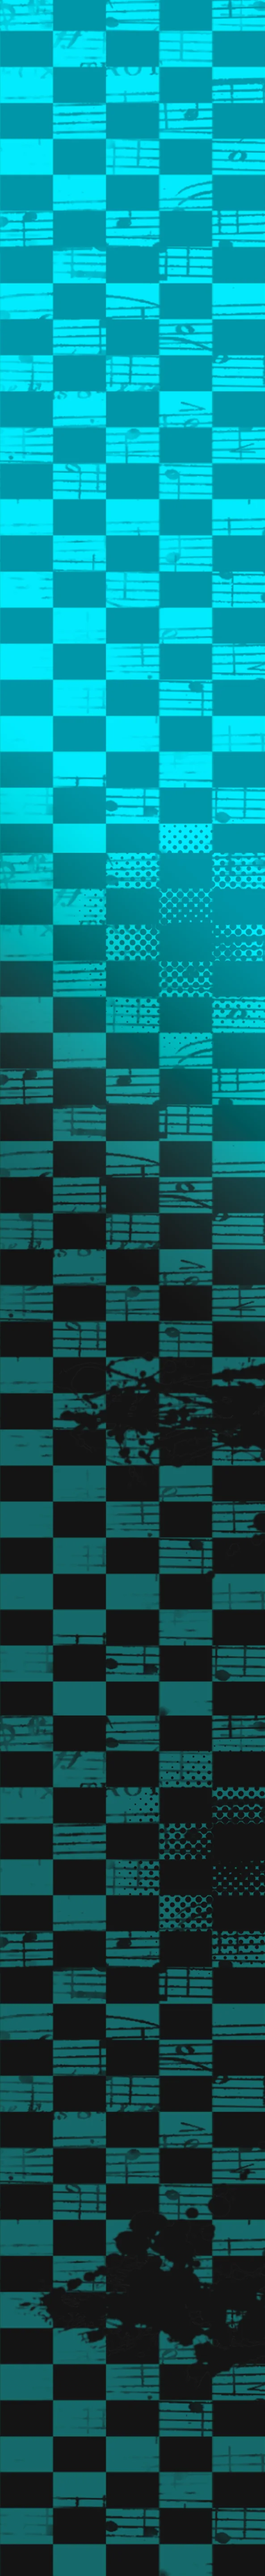
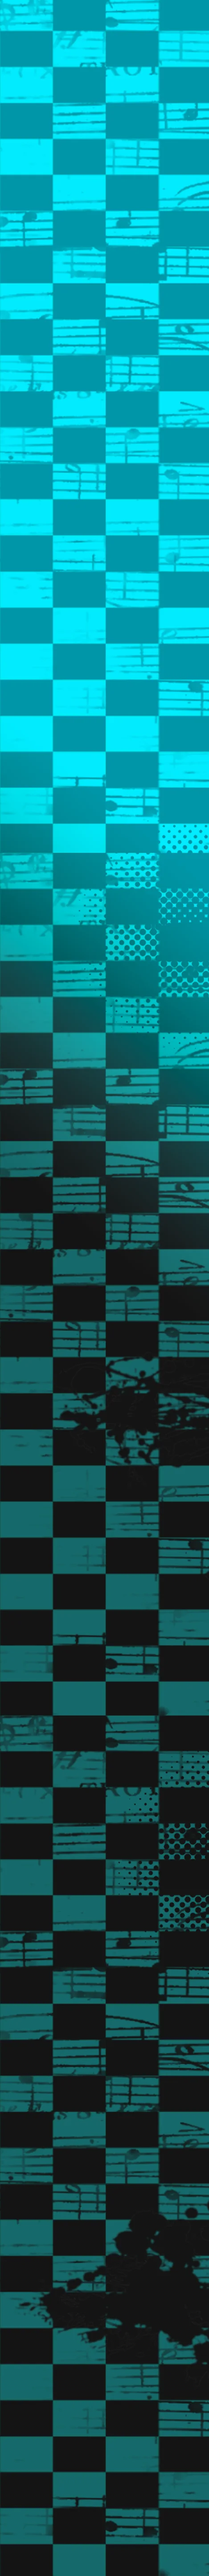
lot of medias

diff --git a/site/css/main.css b/site/css/main.css
@@ -161,7 +161,7 @@ img.photo-frame {
    ========================================================================== */
 
 #navbar {
-  background: #0b2d0b url('../assets/img/backgrouds/navBG.png') no-repeat center / cover;
+  background: #0b2d0b url('../assets/img/backgrouds/navBG.webp') no-repeat center / cover;
   padding: 9px 26px;
   display: flex;
   align-items: center;
@@ -260,7 +260,7 @@ img.photo-frame {
 /* --- zone de contenu : damier grunge fourni par les graphistes --- */
 #main-col {
   flex: 1;
-  background: var(--teal-2) url('../assets/img/backgrouds/mainBG.png') top center / 100% auto repeat-y;
+  background: var(--teal-2) url('../assets/img/backgrouds/mainBG.webp') top center / 100% auto repeat-y;
   padding: 24px 26px 60px;
   position: relative;
 }
@@ -926,7 +926,7 @@ body[data-page="secret"] #main-col {
   content: "";
   position: absolute;
   inset: 0;
-  background: url('../assets/img/backgrouds/backgroundHeadSection.png') center / cover no-repeat;
+  background: url('../assets/img/backgrouds/backgroundHeadSection.webp') center / cover no-repeat;
   filter: hue-rotate(-100deg) saturate(1.05);
   z-index: 0;
 }
@@ -955,7 +955,7 @@ body[data-page="secret"] #main-col {
   content: "";
   position: absolute;
   inset: 0;
-  background: url('../assets/img/backgrouds/backgroundMainSection.png') center / cover no-repeat;
+  background: url('../assets/img/backgrouds/backgroundMainSection.webp') center / cover no-repeat;
   filter: grayscale(.8) brightness(1.1);
   opacity: .32;
   z-index: 0;
@@ -3050,7 +3050,7 @@ section#art {
   display: block;
   width: min(320px, 82vw);
   padding: 13px 10px;
-  background: #0b2d0b url('../assets/img/backgrouds/navBG.png') center / cover no-repeat;
+  background: #0b2d0b url('../assets/img/backgrouds/navBG.webp') center / cover no-repeat;
   border: 2px solid #000;
   box-shadow: 3px 3px 0 rgba(0, 0, 0, .5);
   color: #fff;

diff --git a/shopify-theme/assets/main.css b/shopify-theme/assets/main.css
@@ -161,7 +161,7 @@ img.photo-frame {
    ========================================================================== */
 
 #navbar {
-  background: #0b2d0b url('navBG.png') no-repeat center / cover;
+  background: #0b2d0b url('navBG.webp') no-repeat center / cover;
   padding: 9px 26px;
   display: flex;
   align-items: center;
@@ -260,7 +260,7 @@ img.photo-frame {
 /* --- zone de contenu : damier grunge fourni par les graphistes --- */
 #main-col {
   flex: 1;
-  background: var(--teal-2) url('mainBG.png') top center / 100% auto repeat-y;
+  background: var(--teal-2) url('mainBG.webp') top center / 100% auto repeat-y;
   padding: 24px 26px 60px;
   position: relative;
 }
@@ -926,7 +926,7 @@ body[data-page="secret"] #main-col {
   content: "";
   position: absolute;
   inset: 0;
-  background: url('backgroundHeadSection.png') center / cover no-repeat;
+  background: url('backgroundHeadSection.webp') center / cover no-repeat;
   filter: hue-rotate(-100deg) saturate(1.05);
   z-index: 0;
 }
@@ -955,7 +955,7 @@ body[data-page="secret"] #main-col {
   content: "";
   position: absolute;
   inset: 0;
-  background: url('backgroundMainSection.png') center / cover no-repeat;
+  background: url('backgroundMainSection.webp') center / cover no-repeat;
   filter: grayscale(.8) brightness(1.1);
   opacity: .32;
   z-index: 0;
@@ -3050,7 +3050,7 @@ section#art {
   display: block;
   width: min(320px, 82vw);
   padding: 13px 10px;
-  background: #0b2d0b url('navBG.png') center / cover no-repeat;
+  background: #0b2d0b url('navBG.webp') center / cover no-repeat;
   border: 2px solid #000;
   box-shadow: 3px 3px 0 rgba(0, 0, 0, .5);
   color: #fff;

diff --git a/site/index.html b/site/index.html
@@ -125,8 +125,14 @@
       <div class="section-bar"><h2>About me :</h2></div>
       <div class="leo-box" style="margin-top:10px">
         <div class="inner">
-          je suis SATINE la celebre chanteuse qui fait de la musique. Bienvenue
-          sur mon site officiel :p
+          cc!! ça va?<br>
+          moi c’est satine! je suis chanteuse/produceuse et j’ai 21ans!<br>
+          bienvenu à tous sur mon blog :D!! ici vous pouvez acheter du merch
+          (les barettes et le poster sont pas trop goatesque???), vous pouvez
+          interagir entre vous dans un chat et avec tout pleins d’éléments
+          cachés, y’a même un code secret que vous pouvez trouver en regardant
+          bien les pubs pour accéder à une zone secrète où je poste des trucs
+          trokool...
         </div>
       </div>
 

diff --git a/shopify-theme/assets/shared.js b/shopify-theme/assets/shared.js
@@ -182,7 +182,7 @@ function ASSET(f) { return (window.__ASSET_BASE || 'assets/') + f; }
         '<div class="bubble" id="clippy-bubble" hidden>' +
           '<span class="close-clippy" id="clippy-close">✕</span>' +
           '<span id="clippy-text"></span></div>' +
-        '<img src="' + ASSET('clippy-tv.png') + '" alt="Assistant TV de Satine" id="clippy-img">' +
+        '<img src="' + ASSET('clippy-tv.webp') + '" alt="Assistant TV de Satine" id="clippy-img">' +
       '</div>' +
       '<div id="modal-overlay" hidden><div class="xp-window product-modal">' +
         '<div class="xp-titlebar"><span class="xp-ico">🛍</span>' +

diff --git a/site/js/shared.js b/site/js/shared.js
@@ -178,7 +178,7 @@
         '<div class="bubble" id="clippy-bubble" hidden>' +
           '<span class="close-clippy" id="clippy-close">✕</span>' +
           '<span id="clippy-text"></span></div>' +
-        '<img src="assets/img/clippy-tv.png" alt="Assistant TV de Satine" id="clippy-img">' +
+        '<img src="assets/img/clippy-tv.webp" alt="Assistant TV de Satine" id="clippy-img">' +
       '</div>' +
       '<div id="modal-overlay" hidden><div class="xp-window product-modal">' +
         '<div class="xp-titlebar"><span class="xp-ico">🛍</span>' +
